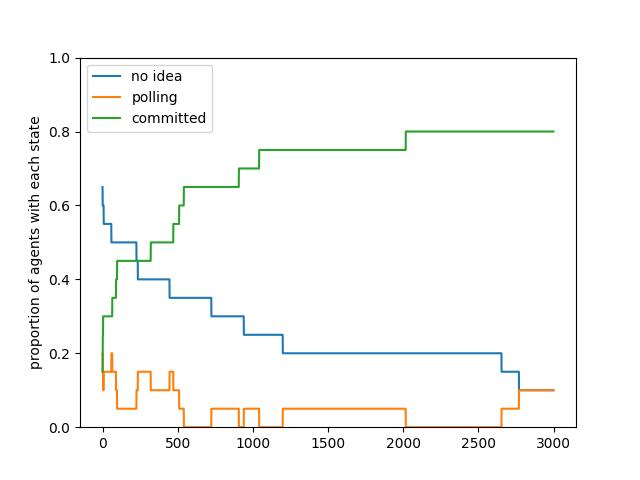
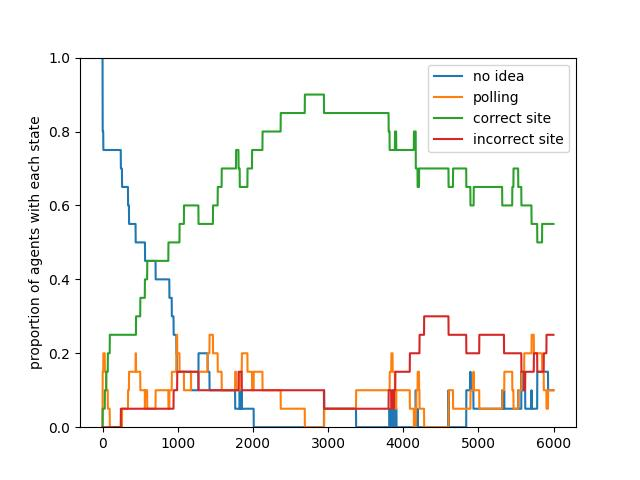
2d no evolution no adversary

Changed region(s): [[0.125, 0.125, 0.9062, 0.9375], [0.8438, 0.9062, 0.9062, 0.9375]]

diff --git a/evoGraphTheory/sim_evo_1d.py b/evoGraphTheory/sim_evo_1d.py
@@ -6,22 +6,22 @@ from networkx.drawing.nx_pydot import *
 
 '''PARAMETERS'''
 
-n_iter = 2000 
+n_iter = 6000 
 '''duration of simulation'''
 
-MAPSIZE = 600
+MAPSIZE = 400
 # agent states
 NOIDEA = 0
 POLLING = 1
 COMMITTED = 2
 # agent param
-AGENT_STEPSIZE = 2
+AGENT_STEPSIZE = 3.5
 AGENT_RADIUS = 10
 NROBOT = 20
-COMM_RANGE = 50
+COMM_RANGE = 60
 # sites param
-NSITE = 1
-SITE_RAD = 75
+NSITE = 2
+SITE_RAD = 60
 # colors
 RED = pygame.Color('#ff1744')
 PINK = pygame.Color('#E30B5C')
@@ -30,6 +30,9 @@ PURPLE = pygame.Color('#ea80fc')
 GREEN = pygame.Color('#4caf50')
 BLUE = pygame.Color('#42a5f5')
 DARKBLUE = pygame.Color('#00008B')
+
+SITE_PALETTE = [RED, DARKBLUE]
+BOT_PALETTE = [PINK, BLUE]
 
 
 def inrange(a,b,r):
@@ -51,6 +54,7 @@ class Agent():
     self.state = NOIDEA
     self.speculation = (-1, -1) # for cross inhib model
     self.opinion = (-1, -1) # should be location of commited site
+    self.site = 0 # id of the committed site?
     self.quality = -1 # have not seen any
     self.broadcasting = None
     self.server = server
@@ -68,7 +72,8 @@ class Agent():
       dx = stepsize * math.cos(direction)
       dy = stepsize * math.sin(direction)
     
-    # in polling state, it will move in the general direction of the potential target, with variation of a standard normal in radian
+    # in polling state, it will move in the general direction of the potential target, 
+    # with variation of a standard normal in radian
     elif self.state == POLLING: # move towards target with some noise
       stepsize = np.random.normal(1, AGENT_STEPSIZE)
       tmp = np.random.standard_normal()
@@ -80,16 +85,16 @@ class Agent():
     self.x = (self.x + dx) % self.server.width
     self.y = (self.y + dy) % self.server.height
   
-  # committed cells broadcast their opinion with probability of the quality sampled
   def advertise(self):
-    if self.state == COMMITTED:
-      if random.random() < self.quality:
-        self.broadcasting = self.opinion
-      else: self.broadcasting = None
+    '''committed cells broadcast their opinion with probability of the quality sampled'''
+    if self.state == COMMITTED and random.random() < self.quality:
+        self.broadcasting = (self.opinion, self.quality)
+    else: self.broadcasting = None
 
   
   def receiveOpinion(self):
-    '''randomly select a message among all robots in range that are broadcasting in that iteration'''
+    '''randomly select a message among all robots in range that are broadcasting
+    in that iteration'''
     friendlist = []
     for friend in self.server.robots:
       if self == friend: continue
@@ -99,46 +104,60 @@ class Agent():
     if len(friendlist) == 0: 
       return
     message = random.choice(friendlist)
-    # if robot in commited state, it retains its state with probability of the quality it sampled
-    if self.state == COMMITTED:
-      if random.random() < self.quality:
-        return
-      # if it's the same site, ignore the message
-      elif inrange(self.opinion, message.broadcasting, SITE_RAD):
-        return
-      # else change to no-idea state
-      else:
+    total_qual = self.quality + message.broadcasting[1]
+
+    # if robot in commited state, 
+    # it retains its state with probability of the quality it sampled
+    if self.state == COMMITTED and self.site != message.site:
+      if random.random() >= self.quality / total_qual:
         self.state = NOIDEA
+        self.site = 0
+    elif self.state == COMMITTED:
+      return  
     else: # else enter polling state 
-      self.state = POLLING
-      self.speculation = message.broadcasting
+      if self.state == POLLING:
+        if random.random() >= self.quality / total_qual:
+          self.speculation = message.broadcasting[0]
+          self.quality = message.broadcasting[1]
+      else:
+        assert(self.state != COMMITTED)
+        self.state = POLLING
+        self.speculation = message.broadcasting[0]
+        self.quality = message.broadcasting[1]
 
   def sample(self):
-    '''at every iteration, if an agent is in range of a target, it will sample the site quality with some probability of error'''
+    '''at every iteration, if an agent is in range of a target, 
+    it will sample the site quality with some random noise'''
     for site in self.server.sites:
-      if inrange((self.x,self.y),(site.x,site.y), site.radius + self.r):
+      if inrange((self.x,self.y),site.loc, SITE_RAD):
         if random.random() < site.quality:
           self.state = COMMITTED
           self.opinion = (self.x, self.y)
-          self.quality = max(0.2 * np.random.standard_normal() + site.quality, 0.99999)
+          self.site = site.id
+          self.quality = max(np.random.normal(0,0.1) + site.quality, 0.99999)
           return
 
 class Target():
-  def __init__(self, id, quality):
+  def __init__(self, id):
     self.radius = SITE_RAD
-    self.x = random.random() * MAPSIZE
-    self.y = random.random() * MAPSIZE
+    self.loc = (int(random.random() * MAPSIZE), int(random.random() * MAPSIZE))
     self.id = id + 1
-    self.quality = quality
+    if id == 0: self.quality = 0.7
+    else: self.quality = 0.3 # random.random()
 
 class PygameGame(object):
-  def __init__(self, width = 600, height = 600, fps = 60, title = "simple simulation"):
+  def __init__(self, free, polling, right, wrong, width = 600, height = 600, fps = 60, title = "simulation"):
     self.width = width
     self.height = height
     self.fps = fps
     self.title = title
     self.robots = []
     self.sites = []
+    self.best = 0 # id of the best site
+    self.free = free
+    self.polling = polling
+    self.right = right
+    self.wrong = wrong
     self.initRobots()
     self.initSites()
     pygame.init()
@@ -151,42 +170,62 @@ class PygameGame(object):
 
   # right now assign the site with a deterministic quality
   def initSites(self):
+    best_site = 0
+    best_quality = -1
     for i in range(NSITE):
-      site = Target(i, 0.8)
+      q = random.random()
+      site = Target(i)
+      # make sure no overlap in site
+      while i > 0 and inrange(site.loc, self.sites[i-1].loc, SITE_RAD * 2):
+        site = Target(i)
+      if q > best_quality:
+        best_quality = q
+        best_site = i
       self.sites.append(site)
+    self.best = best_site + 1
 
   # things done at each iteration
   def timerFired(self, dt):
-    # each robot first sample, then those committed advertise, and all robots check what they have received
+    # each robot first sample, then those committed advertise, 
+    # and all robots check what they have received
     for robot in self.robots:
       robot.sample()
       robot.advertise()
     for robot in self.robots:
       robot.receiveOpinion()
-    # lastly, each makes their own move based on the information and updates in the latest iteration
+    # lastly, each makes their own move based on the information and 
+    # updates in the latest iteration
     for robot in self.robots:
       robot.move()
-    n_poll, n_commit = 0,0
+    n_poll, n_commit, n_correct = 0,0,0
     for robot in self.robots:
       if robot.state == 1:
         n_poll += 1
       if robot.state == 2:
         n_commit += 1
+        if robot.site == self.best:
+          n_correct += 1
     fp = n_poll / NROBOT
     fc = n_commit / NROBOT
+    fright = n_correct / NROBOT
+    n_wrong = n_commit - n_correct
+    fwrong = n_wrong / NROBOT
     ff = 1 - fp - fc
-    frac_polling.append(fp)
-    frac_committed.append(fc)
-    frac_free.append(ff)
+    self.polling.append(fp)
+    self.right.append(fright)
+    self.wrong.append(fwrong)
+    self.free.append(ff)
 
   def drawAll(self, screen): ## visualization
-    for site in self.sites:
-      pygame.draw.circle(screen, RED, (int(site.x), int(site.y)), site.radius)
+    for i in range(len(self.sites)):
+      site = self.sites[i]
+      clr = SITE_PALETTE[i]
+      pygame.draw.circle(screen, clr, site.loc, site.radius, width=2)
 
     for robot in self.robots:
       if robot.state == NOIDEA: color = GREEN
       elif robot.state == POLLING: color = YELLOW
-      else: color = BLUE
+      else: color = BOT_PALETTE[robot.site - 1]
       pygame.draw.circle(screen, color, (int(robot.x), int(robot.y)), robot.r)
       pygame.draw.circle(screen, (0,0,0), (int(robot.x), int(robot.y)), robot.r, True)
 
@@ -201,24 +240,33 @@ class PygameGame(object):
     while cnt < n_iter:
       time = clock.tick(self.fps)
       cnt += 1
-      self.timerFired(time) # invoke everything that are supposed to happen in one time step
+      # invoke everything that are supposed to happen in one time step
+      self.timerFired(time) 
+      # draw things
       screen.fill((255,255,255))
       self.drawAll(screen)
       pygame.display.flip()
     pygame.quit()
 
-frac_free = []
-frac_polling = []
-frac_committed = []
+
 
 def run_trial():
-  game = PygameGame()
-  print("ready?")
+  frac_free = []
+  frac_polling = []
+  frac_correct = []
+  frac_wrong = []
+  game = PygameGame(frac_free, frac_polling, frac_correct, frac_wrong)
+  print("Red:", game.sites[0].quality)
+  print("Blue:", game.sites[1].quality)
+  print(game.best)
   game.run()
 
   plt.plot(frac_free, label = 'no idea')
   plt.plot( frac_polling, label = 'polling')
-  plt.plot( frac_committed, label = 'committed')
+  plt.plot( frac_correct, label = 'correct site')
+  plt.plot(frac_wrong, label = 'incorrect site')
+  plt.ylabel("proportion of agents with each state")
+  plt.ylim(0,1)
   plt.legend()
   # Display a figure.
   plt.savefig("./figures/2dnoadversary.jpg")
